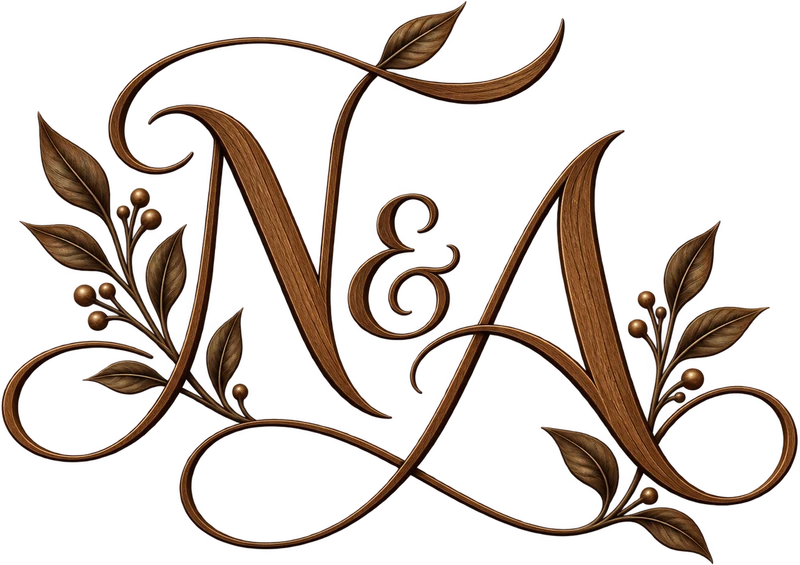
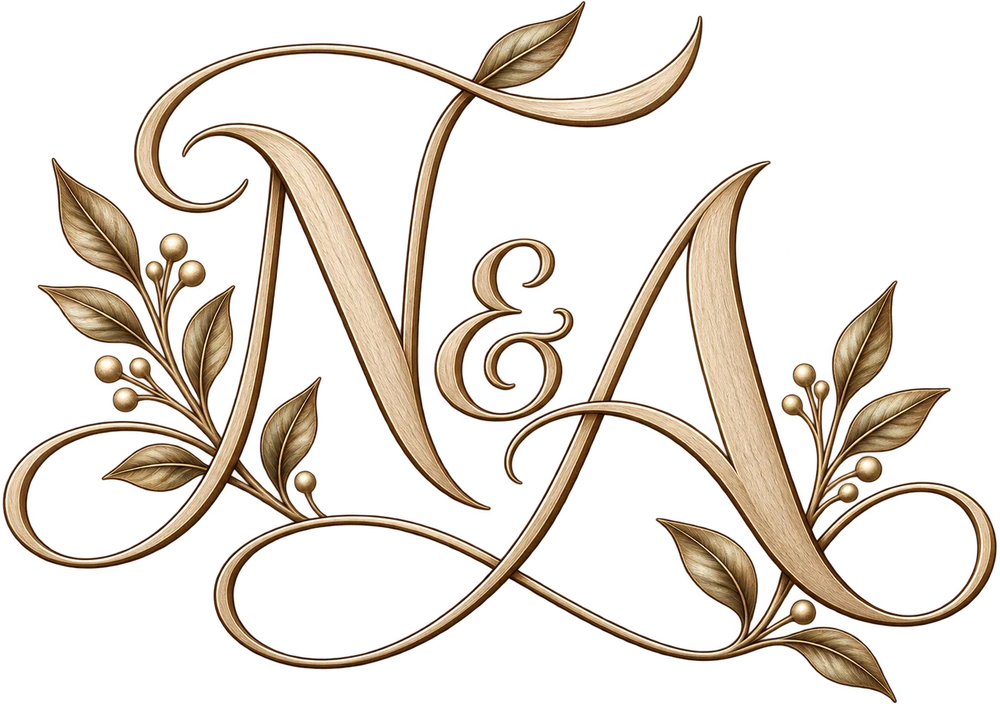
Monogram versi baru, pindah ke bawah "The Wedding Of", nama jadi satu baris
- Ganti artwork monogram ke versi emas yang lebih terang (n and a
  monogram new.png). Diperiksa dulu edge-nya: sempat terlihat ada
  fringe merah/kuning di tepi stroke, tapi setelah dicek per-piksel nol
  piksel merah/kuning baik di area semi-transparan maupun yang opak —
  itu artefak preview di atas latar hitam, bukan di asetnya.
- Urutan cover: bismillah -> "The Wedding Of" -> monogram, jadi label
  itu yang memperkenalkan monogramnya.
- Nama "Nufus & Amri" jadi satu baris. Menumpuknya tiga baris memakan
  ~150px tinggi di cover yang harus tetap menyisakan CTA di layar;
  dilepas, tinggi itu dipakai monogram yang kini ~50% lebih besar
  (216px vs 144px) dan lebarnya jadi sepadan dengan barisan nama
  (216 vs 222px) sehingga keduanya terbaca sebagai satu pasangan.
  Ampersand-nya pakai items-baseline supaya duduk di baseline script,
  bukan ditengahkan terhadap descender-nya yang dalam.
- Lebar monogram pakai min(13.5rem,60vw): hanya menyusut di bawah
  360px, yang sebelumnya satu-satunya ukuran yang masih memotong
  CTA-nya sendiri.

Diverifikasi CTA utuh di 320x568, 360x640, 375x667, 390x664, 412x732
(320 sekarang muat, sebelumnya lewat 68px), tanpa overflow horizontal,
tanpa error JS, build production lolos.

Changed region(s): [[0.0, 0.0, 1.0, 1.0]]

diff --git a/components/Hero/Hero.tsx b/components/Hero/Hero.tsx
@@ -104,8 +104,8 @@ export default function Hero() {
             }}
           />
 
-          <div className="relative z-10 mx-auto flex min-h-svh w-full max-w-md flex-col items-center justify-center gap-4 px-8 py-6 text-center">
-            <div ref={content} className="relative flex flex-col items-center px-7 py-4 sm:px-10">
+          <div className="relative z-10 mx-auto flex min-h-svh w-full max-w-md flex-col items-center justify-center gap-4 px-8 py-5 text-center">
+            <div ref={content} className="relative flex flex-col items-center px-7 py-3 sm:px-10">
               {/* the white arch card — a gateway silhouette echoing the
                   video's own wooden arch, materialising behind the text
                   once every line above has popped in (see
@@ -143,6 +143,14 @@ export default function Hero() {
                 className="font-arabic text-xl leading-relaxed text-accent-dark"
               />
 
+              <AnimatedWords
+                as="p"
+                text="The Wedding Of"
+                variant="popIn"
+                groupSize={1}
+                className="mt-4 font-accent text-[11px] font-normal uppercase tracking-[0.5em] text-on-maroon-soft"
+              />
+
               {/* monogram — a drawn mark (the initials genuinely interwoven,
                   with the botanical flourishes the theme is built around)
                   rather than two script capitals set side by side, which is
@@ -158,37 +166,30 @@ export default function Hero() {
                 alt=""
                 aria-hidden="true"
                 data-monogram
-                width={800}
-                height={565}
+                width={1000}
+                height={704}
                 priority
-                sizes="(min-width: 640px) 13rem, 11rem"
-                className="mt-3 h-auto w-[9rem] sm:w-[11rem]"
-              />
-
-              <AnimatedWords
-                as="p"
-                text="The Wedding Of"
-                variant="popIn"
-                groupSize={1}
-                className="mt-3 font-accent text-[11px] font-normal uppercase tracking-[0.5em] text-on-maroon-soft"
+                sizes="(min-width: 640px) 16rem, 13.5rem"
+                className="mt-1 h-auto w-[min(13.5rem,60vw)] sm:w-[16rem]"
               />
 
               {/* the couple's names — the one place the script face appears at
-                  full scale, gilded and slowly drifting. A formal roundhand
-                  runs wider and carries taller ascenders/deeper descenders
-                  than the old thin script, so this is set a step smaller
-                  (17vw, max 4.6rem) with room to breathe between the lines
-                  rather than the negative leading that used to clamp them —
-                  at 20vw/leading-0.95 the swashes collided and "Nufus" ran
-                  past the card's edge. */}
-              <h1 ref={title} className="mt-2 flex flex-col items-center leading-none">
-                <span className="text-gilded text-gilded-drift font-script text-[clamp(2.9rem,17vw,4.6rem)] leading-[1.12]">
+                  full scale, gilded and slowly drifting. Set on one line so
+                  the monogram above can carry the vertical weight instead:
+                  stacking these three across three lines cost ~150px of a
+                  cover that has to end with a tappable CTA still on screen.
+                  items-baseline, so the ampersand sits on the script's own
+                  baseline rather than being centred against its deep
+                  descenders. */}
+              <h1
+                ref={title}
+                className="mt-3 flex items-baseline justify-center gap-2.5 leading-none"
+              >
+                <span className="text-gilded text-gilded-drift font-script text-[clamp(2.2rem,12.5vw,3.6rem)] leading-[1.15]">
                   {couple.bride.shortName}
                 </span>
-                <span className="font-display text-2xl font-light leading-none text-accent-dark">
-                  &amp;
-                </span>
-                <span className="text-gilded text-gilded-drift font-script text-[clamp(2.9rem,17vw,4.6rem)] leading-[1.12]">
+                <span className="font-display text-xl font-light text-accent-dark">&amp;</span>
+                <span className="text-gilded text-gilded-drift font-script text-[clamp(2.2rem,12.5vw,3.6rem)] leading-[1.15]">
                   {couple.groom.shortName}
                 </span>
               </h1>
